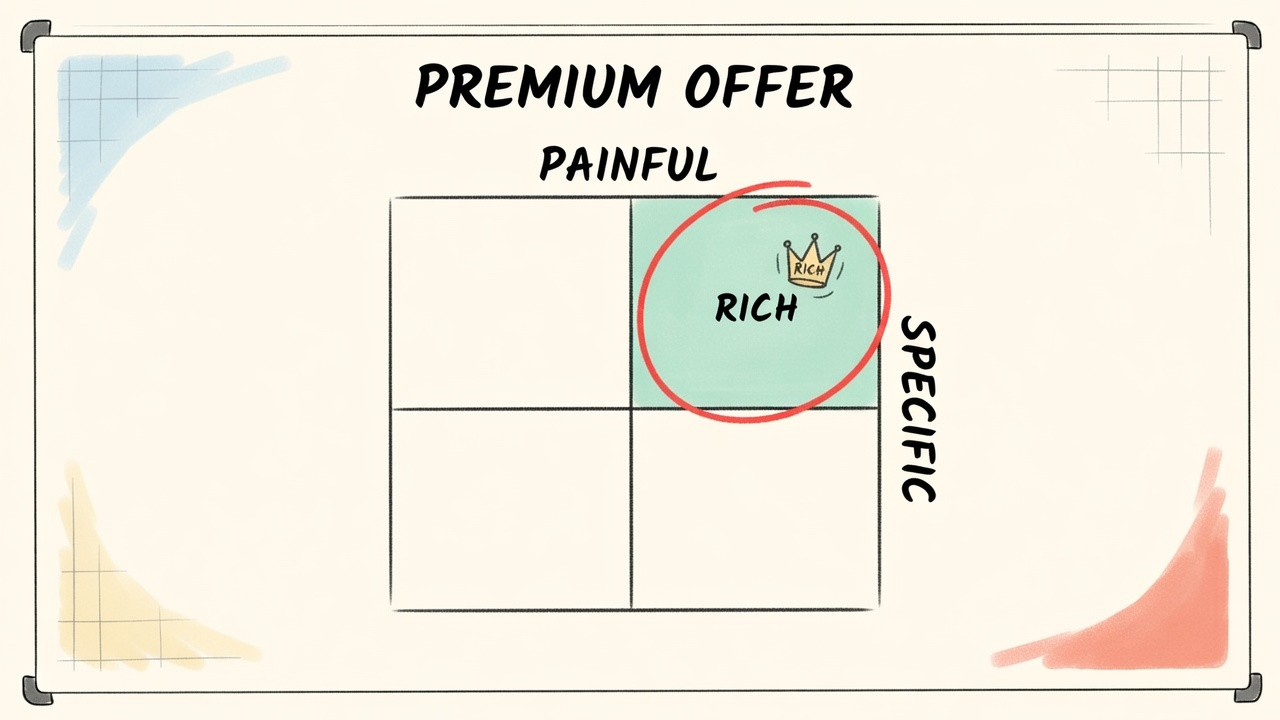
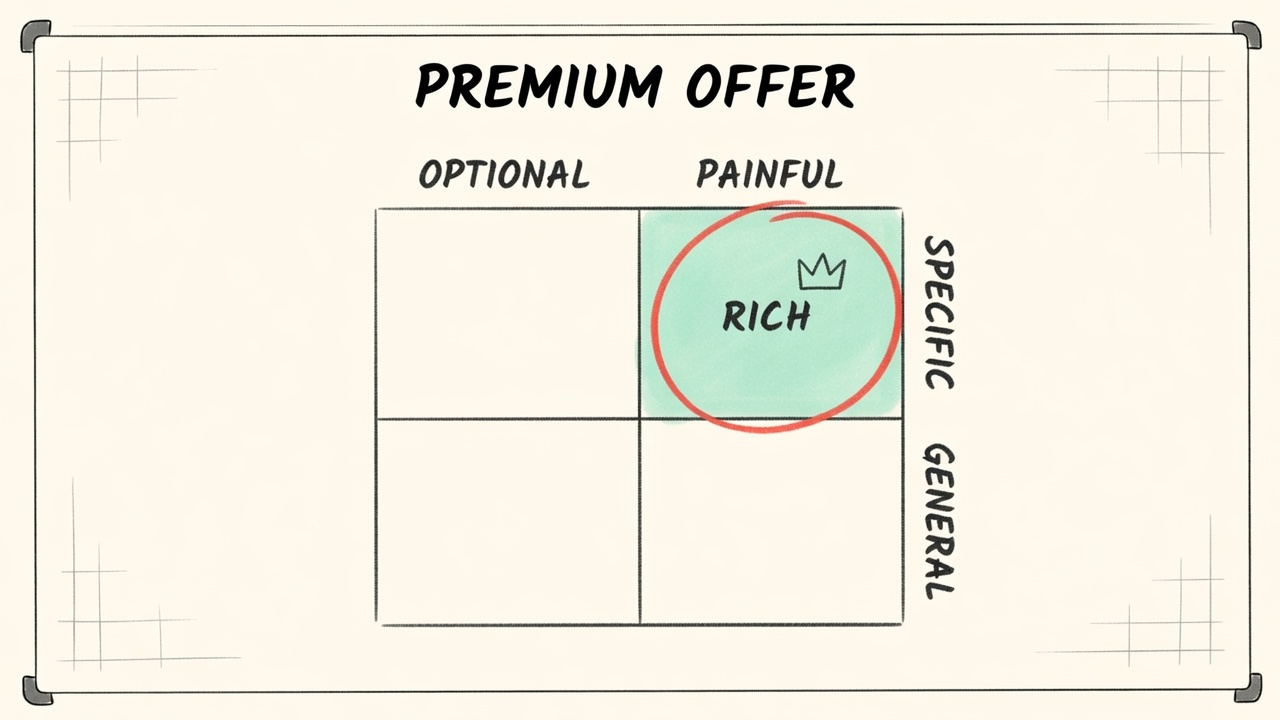
example: premium offer matrix carries all four axis labels

diff --git a/skills/simple-artifact/example/index.html b/skills/simple-artifact/example/index.html
@@ -135,7 +135,7 @@ a.pack-link:hover{color:var(--accent)}
 <section class="beat"><div class="n">2.4</div><h3>The hidden second cost of no leads: your price</h3><figure><img src="img/s07.jpg" alt="Split sketch of a water truck on an empty beach with a $1 tag and one cooler on a packed beach with a $5 tag, titled BEACH WATER" loading="lazy"></figure><div class="vs"><div class="crowd"><b>What the crowd says</b><ul class=""><li>Price is set by the market. Compete on price.</li></ul></div><div class="me"><b>What I say</b><ul class=""><li>Supply and demand is micro economics, and you control it.</li><li>More demand than supply, the price goes up.</li></ul></div></div><ul class="cues"><li>Beach one: truck full of water, other sellers, ten people on the sand. Charge little.</li><li>Beach two: packed beach, one cooler of ice cold bottles, only seller. Charge more.</li></ul><div class="key">Generate more demand than supply and the price goes up.</div></section>
 <section class="part" id="value"><div class="eyebrow">3 · Value</div><h2>Audience first, then a premium offer, then short form leads every day</h2></section>
 <section class="beat"><div class="n">3.1 · The shift</div><h3>Start with the audience, before any product or service</h3><figure><img src="img/s04.jpg" alt="Sketch of a large crowd numbered 1 with an arrow to a small product box numbered 2, titled AUDIENCE FIRST" loading="lazy"></figure><ul class="cues"><li>What are you selling, what problem are you solving, if you do not start with the audience?</li><li>The audience tells you what to build and who pays for it.</li></ul><div class="key ok">Audience first. Always.</div></section>
-<section class="beat"><div class="n">3.2 · Who to attract</div><h3>Four types of audience, one premium offer</h3><figure><img src="img/s05.jpg" alt="Sketch of a two by two grid with the painful and specific cell circled and a crown labeled RICH, titled PREMIUM OFFER" loading="lazy"></figure><ul class="cues"><li>Two axes: optional vs painful. General vs specific.</li><li>Target the corner: the most painful, most specific problem you can solve.</li><li>For the richest people you can solve it for.</li><li>That is a premium offer. It is the key to success. Works in any niche.</li></ul><div class="key">Painful + specific + rich = premium offer.</div></section>
+<section class="beat"><div class="n">3.2 · Who to attract</div><h3>Four types of audience, one premium offer</h3><figure><img src="img/s05.jpg" alt="Sketch of a two by two grid labeled OPTIONAL and PAINFUL across the top and GENERAL and SPECIFIC down the side, the painful and specific cell circled in red with a crown and RICH, titled PREMIUM OFFER" loading="lazy"></figure><ul class="cues"><li>Two axes: optional vs painful. General vs specific.</li><li>Target the corner: the most painful, most specific problem you can solve.</li><li>For the richest people you can solve it for.</li><li>That is a premium offer. It is the key to success. Works in any niche.</li></ul><div class="key">Painful + specific + rich = premium offer.</div></section>
 <section class="beat"><div class="n">3.3 · Example</div><h3>A mentee in the health niche</h3><figure><img src="img/s06.jpg" alt="Sketch of a target with a single arrow in the bullseye next to a person with a CEO name tag, titled ONE PAINFUL PROBLEM" loading="lazy"></figure><ul class="cues"><li>Health, to weight loss, to loss of visceral fat. That specific.</li><li>CEOs and wealthy individuals first. He is doing it and starting to see success.</li></ul></section>
 <section class="beat"><div class="n">3.4 · The map</div><h3>Three sources of daily leads</h3><figure><img src="img/s08.jpg" alt="Sketch of three pipes labeled SHORT FORM, REFERRALS and RENTED pouring into one bucket, titled THREE SOURCES" loading="lazy"></figure><ul class="cues"><li>1. Short form content.</li><li>2. High trust referral leads.</li><li>3. Rented leads: affiliates, partnerships, paid ads.</li><li>Today: short form. The other two another day.</li></ul><div class="loop"><span class="q">?</span><p>Why will your short form posts never ask anyone to buy anything?</p></div></section>
 <section class="beat"><div class="n">3.5 · Step one</div><h3>Pick one platform. Just one.</h3><figure><img src="img/s09.jpg" alt="Sketch of a hand pointing at one phone in a row of five, the chosen one circled in red, titled PICK ONE" loading="lazy"></figure><ul class="cues"><li>TikTok, Instagram, X, Facebook, Threads, YouTube Shorts.</li><li>The one you are most comfortable on, ideally one you already use daily.</li><li>Every platform has a culture. Go against the flow and you read as the used car salesman.</li><li>Weigh where your ideal clients hang out, including age demographics.</li><li>Not on social yet? Start now. Follow, comment, support others before posting.</li></ul><div class="key">One platform, the one you already live on.</div><div class="loop"><span class="q">?</span><p>How did 8k followers in 8 months come from comments, not posts?</p></div></section>
